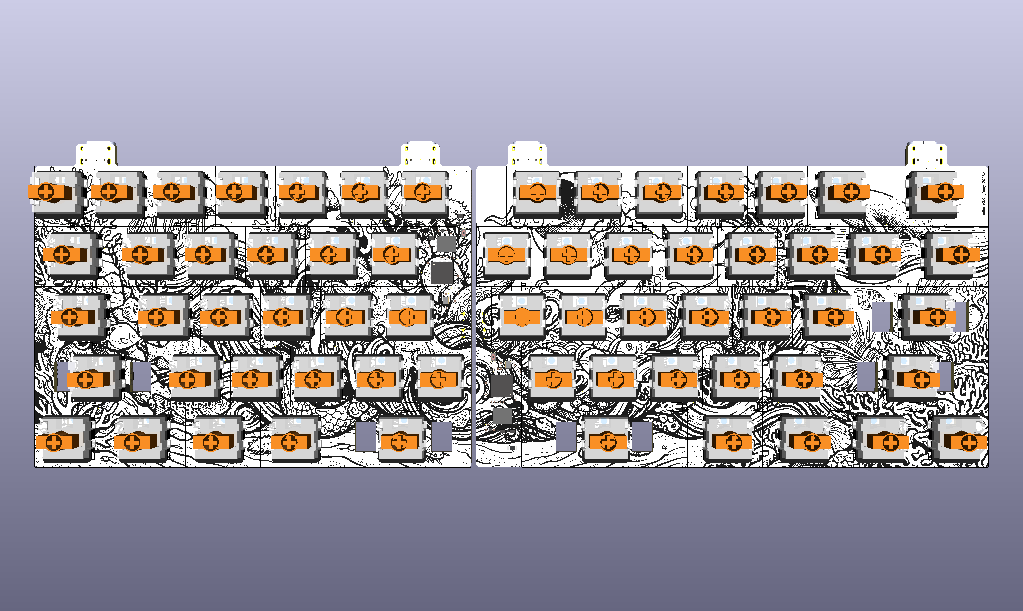
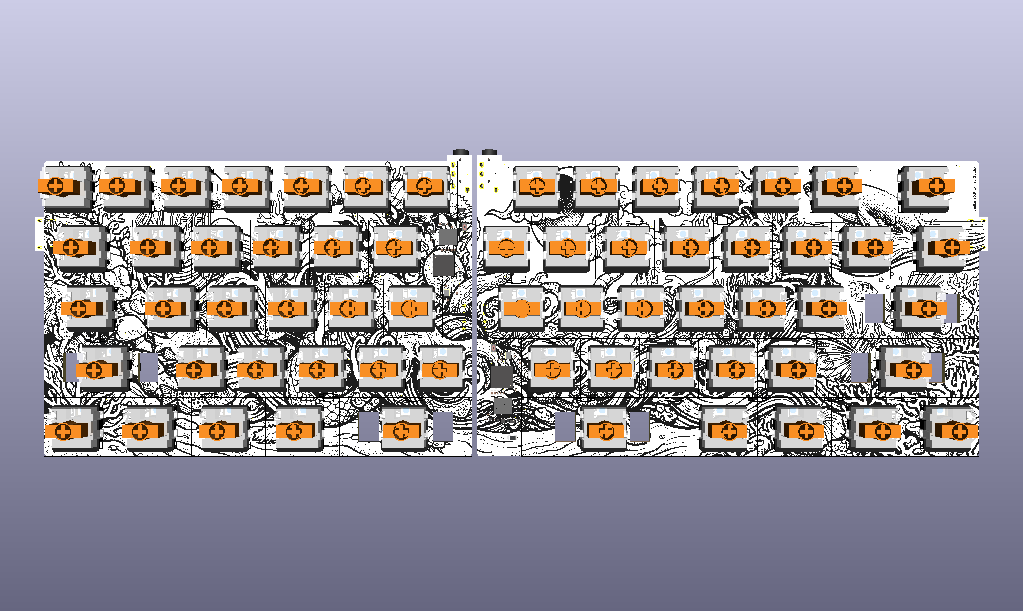
README + 3D renders: side host USB-C, TRRS inter-half link, plank refresh
Reflect the connector reorganization from the previous commit:

- Replaced 3D render images with current state. Added front_nokeys and
  back_nokeys variants (switches hidden in 3D viewer) showing the side
  USB-C planks and inner TRRS planks clearly. Dropped the obsolete
  umiko_3dview_back.png.
- Updated header copy: inter-half link is now TRRS (split serial), host
  USB-Cs are side-mounted on the outer edges of each half.
- Features section now lists TRRS + side host USB-C explicitly instead
  of "USB-C everywhere".
- Hardware Specs: inter-half connector entry switched from USB-C to
  TRRS PJ-320A; pin map noted (TIP=+5V, RING1=data, RING2=NC, SLEEVE=GND).
- BOM: host USB-C qty 4 -> 2, new TRRS row added pointing at
  keebio:TRRS symbol + onigaku:TRRS-PJ-320A footprint.
- Design Notes: inter-half description rewritten for TRRS / PIO serial
  with D1/D5 Schottky-OR of the 5V bridge. New paragraph documents the
  side-mounted host USB-C placement (aligned with Q-row keycap top) and
  the inner-edge TRRS placement.

Also includes the two patch scripts used this session:
_shift_side_planks_qrow.py (Q-row alignment) and _widen_side_planks.py
(1mm pad-clearance widening).

diff --git a/_shift_side_planks_qrow.py b/_shift_side_planks_qrow.py
@@ -1,0 +1,179 @@
+"""Shift side planks + J1/J2 footprints down by 16.85mm to align with Q-row keycap top (Y=55.24)."""
+import re
+import uuid
+
+DY = 16.85          # 55.24 (Q-row keycap top) - 38.39 (current body top)
+NEW_TOP = 37.89 + DY    # 54.74
+NEW_BOT = 47.83 + DY    # 64.68
+
+PCB = r'C:\Users\neuro\dev\keyboard\umiko\umiko.kicad_pcb'
+with open(PCB, encoding='utf-8') as f:
+    txt = f.read()
+
+# Parse all Edge.Cuts segments with byte spans
+segs = []
+for m in re.finditer(r'\(gr_(line|arc)\b', txt):
+    p = m.start(); depth=1; i=m.end()
+    while i < len(txt) and depth>0:
+        c = txt[i]
+        if c=='(': depth+=1
+        elif c==')': depth-=1
+        i+=1
+    blk = txt[p:i]
+    if 'Edge.Cuts' not in blk: continue
+    pts_raw = re.findall(r'\((start|end|mid) ([\d.\-]+) ([\d.\-]+)\)', blk)
+    pts = {key: (float(x), float(y)) for key, x, y in pts_raw}
+    segs.append({'kind': m.group(1), 'start_pos': p, 'end_pos': i, 'pts': pts})
+
+def approx(a, b, tol=0.01): return abs(a-b) < tol
+def pt_eq(p, x, y): return approx(p[0], x) and approx(p[1], y)
+def match(pts, expected):
+    fwd = all(k in pts and pt_eq(pts[k], x, y) for k, x, y in expected)
+    if fwd: return True
+    swap = {'start':'end','end':'start','mid':'mid'}
+    rev = [(swap[k], x, y) for k,x,y in expected]
+    return all(k in pts and pt_eq(pts[k], x, y) for k, x, y in rev)
+
+# Identify the 10 current plank segments to remove
+remove_specs = [
+    # LEFT plank
+    ('line', [('start', 35.18, 37.89), ('end', 32.68, 37.89)]),
+    ('arc',  [('start', 32.68, 37.89), ('end', 32.18, 38.39)]),
+    ('line', [('start', 32.18, 38.39), ('end', 32.18, 47.33)]),
+    ('arc',  [('start', 32.18, 47.33), ('end', 32.68, 47.83)]),
+    ('line', [('start', 32.68, 47.83), ('end', 35.18, 47.83)]),
+    # RIGHT plank
+    ('line', [('start', 336.89, 37.89), ('end', 339.39, 37.89)]),
+    ('arc',  [('start', 339.39, 37.89), ('end', 339.89, 38.39)]),
+    ('line', [('start', 339.89, 38.39), ('end', 339.89, 47.33)]),
+    ('arc',  [('start', 339.89, 47.33), ('end', 339.39, 47.83)]),
+    ('line', [('start', 339.39, 47.83), ('end', 336.89, 47.83)]),
+]
+
+to_remove = []
+for s in segs:
+    for kind, exp in remove_specs:
+        if s['kind'] == kind and match(s['pts'], exp):
+            to_remove.append(s); break
+print(f'Remove: {len(to_remove)} (expected {len(remove_specs)})')
+if len(to_remove) != len(remove_specs):
+    for kind, exp in remove_specs:
+        if not any(s['kind']==kind and match(s['pts'], exp) for s in segs):
+            print(f'  MISSING: {kind} {exp}')
+    raise SystemExit('FAIL')
+
+to_remove.sort(key=lambda s: s['start_pos'], reverse=True)
+out = txt
+for s in to_remove:
+    bp = s['start_pos']
+    while bp > 0 and out[bp-1] in '\t ':
+        bp -= 1
+    if bp > 0 and out[bp-1] == '\n':
+        bp -= 1
+    out = out[:bp] + out[s['end_pos']:]
+
+# ---- Modify the edge segments that bracketed the old plank position ----
+# Left edge above plank: was (35.18, 37.34) -> (35.18, 37.89), update end Y to NEW_TOP
+# Left edge below plank: was (35.18, 47.83) -> (35.18, 130.19), update start Y to NEW_BOT
+# Right edge above plank: was (336.89, 37.34) -> (336.89, 37.89), update end Y to NEW_TOP
+# Right edge below plank: was (336.89, 130.19) -> (336.89, 47.83), update end Y to NEW_BOT
+
+def fmt_line_str(x1, y1, x2, y2):
+    return f'(start {x1} {y1})\n\t\t(end {x2} {y2})'
+
+mods = [
+    # left edge above plank (37.34 -> NEW_TOP)
+    (fmt_line_str(35.18, 37.34, 35.18, 37.89),
+     fmt_line_str(35.18, 37.34, 35.18, NEW_TOP)),
+    # left edge below plank (NEW_BOT -> 130.19)
+    (fmt_line_str(35.18, 47.83, 35.18, 130.19),
+     fmt_line_str(35.18, NEW_BOT, 35.18, 130.19)),
+    # right edge above plank
+    (fmt_line_str(336.89, 37.34, 336.89, 37.89),
+     fmt_line_str(336.89, 37.34, 336.89, NEW_TOP)),
+    # right edge below plank
+    (fmt_line_str(336.89, 130.19, 336.89, 47.83),
+     fmt_line_str(336.89, 130.19, 336.89, NEW_BOT)),
+]
+for old, new in mods:
+    rev_pat = re.sub(r'\(start ([\d.\-]+) ([\d.\-]+)\)\n\t\t\(end ([\d.\-]+) ([\d.\-]+)\)',
+                     r'(start \3 \4)\n\t\t(end \1 \2)', old)
+    rev_new = re.sub(r'\(start ([\d.\-]+) ([\d.\-]+)\)\n\t\t\(end ([\d.\-]+) ([\d.\-]+)\)',
+                     r'(start \3 \4)\n\t\t(end \1 \2)', new)
+    if out.count(old) == 1:
+        out = out.replace(old, new, 1); print(f'  mod fwd: {old[:30]!r}')
+    elif out.count(rev_pat) == 1:
+        out = out.replace(rev_pat, rev_new, 1); print(f'  mod rev: {rev_pat[:30]!r}')
+    else:
+        print(f'  FAIL pattern: fwd={out.count(old)} rev={out.count(rev_pat)}'); raise SystemExit()
+
+# ---- ADD new plank segments at shifted Y ----
+def new_uuid(): return str(uuid.uuid4())
+def fmt_line(x1,y1,x2,y2):
+    return (f'\t(gr_line\n\t\t(start {x1} {y1})\n\t\t(end {x2} {y2})\n'
+            f'\t\t(stroke\n\t\t\t(width 0.05)\n\t\t\t(type default)\n\t\t)\n'
+            f'\t\t(layer "Edge.Cuts")\n\t\t(uuid "{new_uuid()}")\n\t)')
+def fmt_arc(x1,y1,mx,my,x2,y2):
+    return (f'\t(gr_arc\n\t\t(start {x1} {y1})\n\t\t(mid {mx} {my})\n\t\t(end {x2} {y2})\n'
+            f'\t\t(stroke\n\t\t\t(width 0.05)\n\t\t\t(type default)\n\t\t)\n'
+            f'\t\t(layer "Edge.Cuts")\n\t\t(uuid "{new_uuid()}")\n\t)')
+
+LP_IN, LP_OUT = 35.18, 32.18
+RP_IN, RP_OUT = 336.89, 339.89
+R = 0.5; M = 0.353553
+TOP, BOT = NEW_TOP, NEW_BOT  # 54.74, 64.68
+
+left_plank = [
+    fmt_line(LP_IN, TOP, LP_OUT + R, TOP),
+    fmt_arc(LP_OUT + R, TOP, LP_OUT + R - M, TOP + R - M, LP_OUT, TOP + R),
+    fmt_line(LP_OUT, TOP + R, LP_OUT, BOT - R),
+    fmt_arc(LP_OUT, BOT - R, LP_OUT + R - M, BOT - R + M, LP_OUT + R, BOT),
+    fmt_line(LP_OUT + R, BOT, LP_IN, BOT),
+]
+right_plank = [
+    fmt_line(RP_IN, TOP, RP_OUT - R, TOP),
+    fmt_arc(RP_OUT - R, TOP, RP_OUT - R + M, TOP + R - M, RP_OUT, TOP + R),
+    fmt_line(RP_OUT, TOP + R, RP_OUT, BOT - R),
+    fmt_arc(RP_OUT, BOT - R, RP_OUT - R + M, BOT - R + M, RP_OUT - R, BOT),
+    fmt_line(RP_OUT - R, BOT, RP_IN, BOT),
+]
+new_segments = left_plank + right_plank
+inject = '\n' + '\n'.join(new_segments) + '\n'
+out_stripped = out.rstrip()
+assert out_stripped.endswith(')')
+out = out_stripped[:-1] + inject + ')\n'
+
+# ---- Move J1 and J2 footprint origins ----
+# J1 at (34.85, 42.86, 90) on B.Cu  ->  (34.85, 42.86 + DY, 90)
+# J2 at (337.25, 42.86, -90) on B.Cu  ->  (337.25, 42.86 + DY, -90)
+new_J_y = 42.86 + DY  # 59.71
+
+# Find each J* footprint's (at ...) line by ref + replace Y in the FIRST (at) of the block
+def move_footprint(text, jref, new_x, new_y):
+    # find footprint with matching Reference
+    matches = list(re.finditer(r'\(footprint "[^"]+"', text))
+    for m in matches:
+        p = m.start(); depth=1; i=m.end()
+        while i<len(text) and depth>0:
+            c=text[i]
+            if c=='(': depth+=1
+            elif c==')': depth-=1
+            i+=1
+        blk = text[p:i]
+        if f'(property "Reference" "{jref}"' in blk:
+            # Replace first (at ...) in block (the footprint origin)
+            at_m = re.search(r'\(at ([\d.\-]+) ([\d.\-]+)(?:\s+([\d.\-]+))?\)', blk[:blk.find('(property')])
+            if at_m:
+                old_at = at_m.group(0)
+                rot_part = ' ' + at_m.group(3) if at_m.group(3) else ''
+                new_at = f'(at {at_m.group(1)} {new_y}{rot_part})'
+                new_blk = blk.replace(old_at, new_at, 1)
+                return text[:p] + new_blk + text[i:]
+    raise SystemExit(f'Could not find {jref}')
+
+out = move_footprint(out, 'J1', 34.85, new_J_y)
+out = move_footprint(out, 'J2', 337.25, new_J_y)
+
+with open(PCB, 'w', encoding='utf-8') as f:
+    f.write(out)
+print(f'Removed {len(to_remove)} plank segments, modified 4 edge lines, added {len(new_segments)} new plank segments, moved J1+J2 to Y={new_J_y}.')

diff --git a/_widen_side_planks.py b/_widen_side_planks.py
@@ -1,0 +1,143 @@
+"""Widen side planks by 1mm total in Y direction (0.5mm at top + 0.5mm at bottom) for pad clearance."""
+import re
+import uuid
+
+PCB = r'C:\Users\neuro\dev\keyboard\umiko\umiko.kicad_pcb'
+with open(PCB, encoding='utf-8') as f:
+    txt = f.read()
+
+# Current plank Y range: 54.74 -> 64.68
+# New plank Y range: 54.24 -> 65.18
+OLD_TOP, OLD_BOT = 54.74, 64.68
+NEW_TOP, NEW_BOT = 54.24, 65.18
+
+# Parse Edge.Cuts segments
+segs = []
+for m in re.finditer(r'\(gr_(line|arc)\b', txt):
+    p = m.start(); depth=1; i=m.end()
+    while i < len(txt) and depth>0:
+        c = txt[i]
+        if c=='(': depth+=1
+        elif c==')': depth-=1
+        i+=1
+    blk = txt[p:i]
+    if 'Edge.Cuts' not in blk: continue
+    pts_raw = re.findall(r'\((start|end|mid) ([\d.\-]+) ([\d.\-]+)\)', blk)
+    pts = {key: (float(x), float(y)) for key, x, y in pts_raw}
+    segs.append({'kind': m.group(1), 'start_pos': p, 'end_pos': i, 'pts': pts})
+
+def approx(a, b, tol=0.01): return abs(a-b) < tol
+def pt_eq(p, x, y): return approx(p[0], x) and approx(p[1], y)
+def match(pts, expected):
+    fwd = all(k in pts and pt_eq(pts[k], x, y) for k, x, y in expected)
+    if fwd: return True
+    swap = {'start':'end','end':'start','mid':'mid'}
+    rev = [(swap[k], x, y) for k,x,y in expected]
+    return all(k in pts and pt_eq(pts[k], x, y) for k, x, y in rev)
+
+# Remove all 10 current plank segments
+remove_specs = [
+    # LEFT
+    ('line', [('start', 35.18, OLD_TOP), ('end', 32.68, OLD_TOP)]),
+    ('arc',  [('start', 32.68, OLD_TOP), ('end', 32.18, 55.24)]),
+    ('line', [('start', 32.18, 55.24), ('end', 32.18, 64.18)]),
+    ('arc',  [('start', 32.18, 64.18), ('end', 32.68, OLD_BOT)]),
+    ('line', [('start', 32.68, OLD_BOT), ('end', 35.18, OLD_BOT)]),
+    # RIGHT
+    ('line', [('start', 336.89, OLD_TOP), ('end', 339.39, OLD_TOP)]),
+    ('arc',  [('start', 339.39, OLD_TOP), ('end', 339.89, 55.24)]),
+    ('line', [('start', 339.89, 55.24), ('end', 339.89, 64.18)]),
+    ('arc',  [('start', 339.89, 64.18), ('end', 339.39, OLD_BOT)]),
+    ('line', [('start', 339.39, OLD_BOT), ('end', 336.89, OLD_BOT)]),
+]
+
+to_remove = []
+for s in segs:
+    for kind, exp in remove_specs:
+        if s['kind'] == kind and match(s['pts'], exp):
+            to_remove.append(s); break
+print(f'Remove: {len(to_remove)} (expected {len(remove_specs)})')
+if len(to_remove) != len(remove_specs):
+    for kind, exp in remove_specs:
+        if not any(s['kind']==kind and match(s['pts'], exp) for s in segs):
+            print(f'  MISSING: {kind} {exp}')
+    raise SystemExit('FAIL')
+
+to_remove.sort(key=lambda s: s['start_pos'], reverse=True)
+out = txt
+for s in to_remove:
+    bp = s['start_pos']
+    while bp > 0 and out[bp-1] in '\t ':
+        bp -= 1
+    if bp > 0 and out[bp-1] == '\n':
+        bp -= 1
+    out = out[:bp] + out[s['end_pos']:]
+
+# ---- Modify edge segments (above/below plank) ----
+def fmt_line_str(x1,y1,x2,y2):
+    return f'(start {x1} {y1})\n\t\t(end {x2} {y2})'
+
+mods = [
+    # Left edge above plank: end Y OLD_TOP -> NEW_TOP
+    (fmt_line_str(35.18, 37.34, 35.18, OLD_TOP),
+     fmt_line_str(35.18, 37.34, 35.18, NEW_TOP)),
+    # Left edge below plank: start Y OLD_BOT -> NEW_BOT
+    (fmt_line_str(35.18, OLD_BOT, 35.18, 130.19),
+     fmt_line_str(35.18, NEW_BOT, 35.18, 130.19)),
+    # Right edge above plank
+    (fmt_line_str(336.89, 37.34, 336.89, OLD_TOP),
+     fmt_line_str(336.89, 37.34, 336.89, NEW_TOP)),
+    # Right edge below plank
+    (fmt_line_str(336.89, 130.19, 336.89, OLD_BOT),
+     fmt_line_str(336.89, 130.19, 336.89, NEW_BOT)),
+]
+for old, new in mods:
+    rev_pat = re.sub(r'\(start ([\d.\-]+) ([\d.\-]+)\)\n\t\t\(end ([\d.\-]+) ([\d.\-]+)\)',
+                     r'(start \3 \4)\n\t\t(end \1 \2)', old)
+    rev_new = re.sub(r'\(start ([\d.\-]+) ([\d.\-]+)\)\n\t\t\(end ([\d.\-]+) ([\d.\-]+)\)',
+                     r'(start \3 \4)\n\t\t(end \1 \2)', new)
+    if out.count(old) == 1:
+        out = out.replace(old, new, 1); print(f'  mod fwd ok')
+    elif out.count(rev_pat) == 1:
+        out = out.replace(rev_pat, rev_new, 1); print(f'  mod rev ok')
+    else:
+        print(f'  FAIL: fwd={out.count(old)} rev={out.count(rev_pat)}'); raise SystemExit()
+
+# ---- ADD new plank segments at widened Y ----
+def new_uuid(): return str(uuid.uuid4())
+def fmt_line(x1,y1,x2,y2):
+    return (f'\t(gr_line\n\t\t(start {x1} {y1})\n\t\t(end {x2} {y2})\n'
+            f'\t\t(stroke\n\t\t\t(width 0.05)\n\t\t\t(type default)\n\t\t)\n'
+            f'\t\t(layer "Edge.Cuts")\n\t\t(uuid "{new_uuid()}")\n\t)')
+def fmt_arc(x1,y1,mx,my,x2,y2):
+    return (f'\t(gr_arc\n\t\t(start {x1} {y1})\n\t\t(mid {mx} {my})\n\t\t(end {x2} {y2})\n'
+            f'\t\t(stroke\n\t\t\t(width 0.05)\n\t\t\t(type default)\n\t\t)\n'
+            f'\t\t(layer "Edge.Cuts")\n\t\t(uuid "{new_uuid()}")\n\t)')
+
+LP_IN, LP_OUT = 35.18, 32.18
+RP_IN, RP_OUT = 336.89, 339.89
+R = 0.5; M = 0.353553
+
+left_plank = [
+    fmt_line(LP_IN, NEW_TOP, LP_OUT + R, NEW_TOP),
+    fmt_arc(LP_OUT + R, NEW_TOP, LP_OUT + R - M, NEW_TOP + R - M, LP_OUT, NEW_TOP + R),
+    fmt_line(LP_OUT, NEW_TOP + R, LP_OUT, NEW_BOT - R),
+    fmt_arc(LP_OUT, NEW_BOT - R, LP_OUT + R - M, NEW_BOT - R + M, LP_OUT + R, NEW_BOT),
+    fmt_line(LP_OUT + R, NEW_BOT, LP_IN, NEW_BOT),
+]
+right_plank = [
+    fmt_line(RP_IN, NEW_TOP, RP_OUT - R, NEW_TOP),
+    fmt_arc(RP_OUT - R, NEW_TOP, RP_OUT - R + M, NEW_TOP + R - M, RP_OUT, NEW_TOP + R),
+    fmt_line(RP_OUT, NEW_TOP + R, RP_OUT, NEW_BOT - R),
+    fmt_arc(RP_OUT, NEW_BOT - R, RP_OUT - R + M, NEW_BOT - R + M, RP_OUT - R, NEW_BOT),
+    fmt_line(RP_OUT - R, NEW_BOT, RP_IN, NEW_BOT),
+]
+new_segments = left_plank + right_plank
+inject = '\n' + '\n'.join(new_segments) + '\n'
+out_stripped = out.rstrip()
+assert out_stripped.endswith(')')
+out = out_stripped[:-1] + inject + ')\n'
+
+with open(PCB, 'w', encoding='utf-8') as f:
+    f.write(out)
+print(f'Removed {len(to_remove)}, modified 4, added {len(new_segments)}. New plank Y: {NEW_TOP} - {NEW_BOT}')

diff --git a/README.md b/README.md
@@ -1,11 +1,12 @@
 # umiko
 
 ![Image of schematic](images/umiko_schematic.svg)
-![Image of pcb front](images/umiko_3dview_front.png)
-![Image of pcb back](images/umiko_3dview_back.png)
-![Image of pcb render](images/umiko_3dview_persp.png)
+![PCB front (with keycaps)](images/umiko_3dview_front.png)
+![PCB perspective](images/umiko_3dview_persp.png)
+![PCB front (no keys)](images/umiko_3dview_front_nokeys.png)
+![PCB back (no keys)](images/umiko_3dview_back_nokeys.png)
 
-A split, low-profile TKL F-row-less mechanical keyboard PCB. Two halves connect via USB-C, each half is independently powered and flashable, and each half has its own RP2040 microcontroller, per-key RGB, and underglow. Stabilizer cutouts are sized for Kailh Choc V2 stabilizers. Switches are Gateron KS-33 v2.0 low-profile (MX-compatible, hot-swap). 4-layer board with split L/R power rails and dedicated inner GND/3V3 planes.
+A split, low-profile TKL F-row-less mechanical keyboard PCB. Two halves connect via TRRS (split serial), each half is independently powered via its own side-mounted host USB-C and flashable, and each half has its own RP2040 microcontroller, per-key RGB, and underglow. Stabilizer cutouts are sized for Kailh Choc V2 stabilizers. Switches are Gateron KS-33 v2.0 low-profile (MX-compatible, hot-swap). 4-layer board with split L/R power rails and dedicated inner GND/3V3 planes.
 
 ## Features
 
@@ -15,7 +16,8 @@ A split, low-profile TKL F-row-less mechanical keyboard PCB. Two halves connect 
 * **Underglow** (SK6812MINI-E underglow variant, mounted on the back of the PCB)
 * **Gateron KS-33 v2.0 low-profile hot-swap** switches (MX-compatible footprint, low-profile body)
 * **Kailh Choc V2 stabilizers** (stabilizer cutouts on PCB sized for Choc V2, not MX stabs)
-* **USB-C everywhere** — host USB-C per half + inter-half USB-C (replacing the older TRRS pattern)
+* **Side-mounted host USB-C** per half (on the outer edge of each board) for host connection and power
+* **TRRS inter-half link** (PJ-320A, on the inner edge of each board) carrying split serial + GND + 5V bridge
 * **RP2040** — one per half, each with its own external QSPI flash (W25Q128) and 3V3 LDO (LP5907)
 * **BOOTSEL-only flashing** — each half has a BOOTSEL button (SW1 left, SW2 right). No reset circuit by design; flashing is via "unplug USB → hold BOOTSEL → plug USB → release → drop .uf2"
 * **SWD test points** — 8 pads per half organized as a pogo-clip pattern (CLK/IO/GND/3V3); pads mirrored across halves so a flipped 6-pin clip lands on matching signals
@@ -35,8 +37,8 @@ A split, low-profile TKL F-row-less mechanical keyboard PCB. Two halves connect 
 | **Stabilizers** | Kailh Choc V2 (2.25U and 2.75U key positions) |
 | **Per-key RGB LEDs** | 63× SK6812MINI-E reverse-mount |
 | **Underglow LEDs** | 26× SK6812MINI-E (B.Cu side) |
-| **Host connector** | 2× HRO TYPE-C-31-M-12 (USB 2.0 16P) |
-| **Inter-half connector** | 2× HRO TYPE-C-31-M-12 (used as 3-wire serial: VBUS, GND, D+) |
+| **Host connector** | 2× HRO TYPE-C-31-M-12 (USB 2.0 16P), side-mounted on the outer edge of each half |
+| **Inter-half connector** | 2× TRRS PJ-320A (TIP=+5V, RING1=split data, RING2=NC spare, SLEEVE=GND), inner-edge mounted on each half |
 | **Diodes** | 63× SK matrix diodes, 4× power-path Schottky (PMEG2010BELD), 4× LED indicators |
 | **Polyfuse** | 2× 1.1 A (Fuse_0603) for USB power input |
 | **Ferrite beads** | 2× 600 Ω (FB1/FB2) for VBUS filtering |
@@ -51,7 +53,8 @@ RP2040 MCU | RP2040 (QFN-56) | 2 | LCSC `C2040` / Mouser / DigiKey / direct from
 QSPI Flash | Winbond W25Q128JVPIQ | 2 | LCSC `C190862` / Mouser / DigiKey
 3.3V LDO | TI TLV75533PDQNR | 2 | LCSC `C133572` (X2SON-4)
 12 MHz crystal | 2520 4-pin SMD | 2 | LCSC `C2149204` / Mouser
-USB-C receptacle | HRO TYPE-C-31-M-12 | 4 | LCSC `C963373` / JLC / AliExpress
+USB-C receptacle (host) | HRO TYPE-C-31-M-12 | 2 | LCSC `C963373` / JLC / AliExpress
+TRRS jack (inter-half) | PJ-320A 4-conductor | 2 | LCSC / Keebio / AliExpress — `keebio:TRRS` symbol + `onigaku:TRRS-PJ-320A` footprint
 USB ESD | USBLC6-2P6 | 2 | LCSC `C2827693` (SOT-666)
 Polyfuse | Bourns MF-PSMF110X-2 (1.1 A, 0603) | 2 | LCSC `C89658` / DigiKey
 Ferrite bead | 600 Ω 0402 | 2 | LCSC `C160977`
@@ -185,7 +188,8 @@ JLC's CPL parser is unusually strict about:
 ## Design Notes
 
 * **No reset circuit** — flashing is via BOOTSEL alone. RP2040's `~RUN` pin has an internal pull-up; leaving it floating is safe.
-* **Inter-half connection** uses USB-C for the physical connector but carries QMK split-serial protocol (single data wire on D+, with GND and VBUS sharing power). Not a real USB connection between halves.
+* **Inter-half connection** uses TRRS (PJ-320A) carrying QMK PIO-serial split (TIP=+5V, RING1=data, SLEEVE=GND; RING2 reserved for future I²C/SCL or 2-wire full-duplex serial). The 5V bridge lets a single host USB-C power both halves through D1/D5 Schottky OR-ing.
+* **Connector placement** — the two host USB-C jacks are mounted on the outer-side edges of each half (aligned with the Q-row keycap top); the TRRS jacks are at the inner-edge top corners of each half. Both sit on small Edge.Cuts plank protrusions (3 mm for the host USB-C, 2 mm for the TRRS).
 * **Each half is fully independent** — you can power and flash each half on its own. Either half can be the master.
 * **Edge cuts** have 1.25 mm fillets on all corners. Both halves form closed loops; no breakaway tabs (order as 2 separate boards, or as a customer panel).
 * The `onigaku` repo (sibling library) contains the custom symbols, footprints, and 3D models referenced by this design. Must be cloned alongside this repo for KiCad to find the libraries.